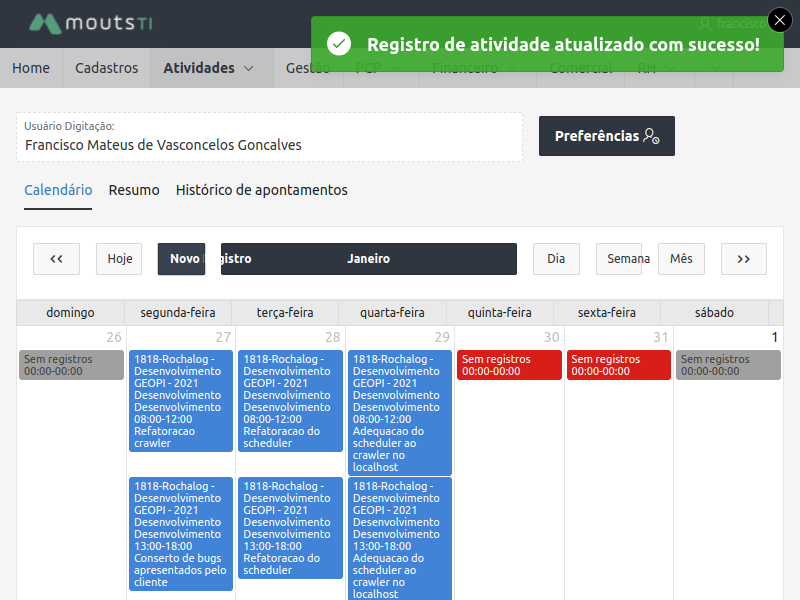
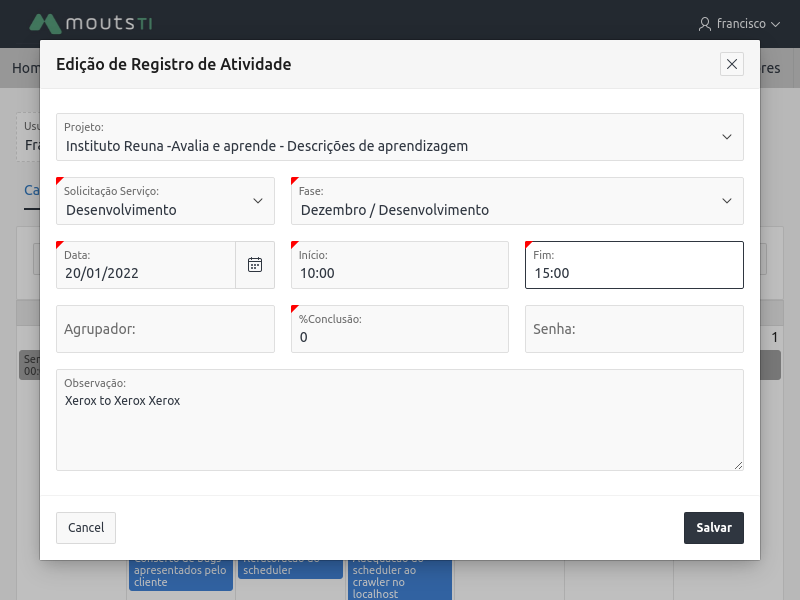
refatoracao e novas funcionalidades

diff --git a/script.js b/script.js
@@ -1,36 +1,22 @@
 const puppet = require("puppeteer");
+const intro = require("./etapas/intro");
+const modal = require("./etapas/modal");
 
 (async () => {
-	//const browser = await puppet.launch("browser");
-	const browser = await puppet.launch({ headless: false });
+	//constants
+	const params = {
+		data: 20 - 1,
+		texto: "Xerox to Xerox Xerox",
+		tempoInicio: "1000",
+		tempoFim: "1500",
+		empresa: "reuna",
+	};
+
+	const browser = await puppet.launch({ headless: true });
 	const page = await browser.newPage();
+	const elementHandle = await intro(page);
+	await modal(elementHandle, params);
 
-	const navigationPromise = page.waitForNavigation({
-		waitUntil: "networkidle2",
-	});
-	await page.goto(
-		"http://gdp.mouts.info/ords/f?p=100:LOGIN_DESKTOP:11870639424472:::::",
-	);
-	await page.type("#P9999_USERNAME", "francisco");
-	await page.type("#P9999_PASSWORD", "MOUTS0247");
-	await page.click("#B4448393888099367");
-	await navigationPromise;
-	await page.waitForSelector("#t_MenuNav_2");
-	await page.click("#t_MenuNav_2i");
-	await page.click("#t_MenuNav_2_0i");
-	await navigationPromise;
-
-	await page.waitForTimeout(4000);
-	await page.waitForSelector("#B38592991709747903");
-	await page.click("#B38592991709747903");
-
-	await page.waitForSelector(".ui-dialog");
-	const elementHandle = await page.waitForSelector("div.ui-dialog iframe");
-	await page.waitForTimeout(4000);
-	// Aqui Chega no Modal
-	const frame = await elementHandle.contentFrame();
-	await frame.waitForSelector("#B36122282037704243");
-	await frame.click("#B36122282037704243");
 	///////////////////////////////////////
 	await page.waitForTimeout(4000);
 	await page.screenshot({ path: "google.png" });

diff --git a/etapas/modal/index.js b/etapas/modal/index.js
@@ -1,0 +1,32 @@
+const selecionaEmpresa = require("./acoes/empresa");
+
+const modal = async (elementHandle, params) => {
+	const { empresa, tempoInicio, tempoFim, texto, data } = params;
+	// Aqui Chega no Modal
+	const frame = await elementHandle.contentFrame();
+	await frame.waitForSelector("#B36122282037704243");
+	await selecionaEmpresa(frame, empresa);
+	// Seleciona Data
+	await frame.click(".icon-calendar");
+	let datas = await frame.$x("//a[contains(@class, 'ui-state-default')]");
+	await datas[data].click();
+	// Escreve testim bonitim
+	await frame.evaluate(
+		() => (document.getElementById("P46_DS_OBSERVACAO").value = ""),
+	);
+	const textArea = await frame.$("#P46_DS_OBSERVACAO");
+	await textArea.type(texto);
+	//Indica as horas
+	//Inicio
+	const inicio = await frame.$("#P46_DT_HORA_INICIO");
+	await inicio.click({ clickCount: 3 });
+	await inicio.type(tempoInicio);
+	//Fim
+	const fim = await frame.$("#P46_DT_HORA_FIM");
+	await fim.click({ clickCount: 3 });
+	await fim.type(tempoFim);
+	// Confirma
+	//await frame.click("#B36122282037704243");
+};
+
+module.exports = modal;

diff --git a/etapas/intro.js b/etapas/intro.js
@@ -1,0 +1,28 @@
+const intro = async (page) => {
+	const navigationPromise = page.waitForNavigation({
+		waitUntil: "networkidle2",
+	});
+	await page.goto(
+		"http://gdp.mouts.info/ords/f?p=100:LOGIN_DESKTOP:11870639424472:::::",
+	);
+	await page.type("#P9999_USERNAME", "francisco");
+	await page.type("#P9999_PASSWORD", "MOUTS0247");
+	await page.click("#B4448393888099367");
+	await navigationPromise;
+	await page.waitForSelector("#t_MenuNav_2");
+	await page.click("#t_MenuNav_2i");
+	await page.click("#t_MenuNav_2_0i");
+	await navigationPromise;
+
+	await page.waitForTimeout(4000);
+	await page.waitForSelector("#B38592991709747903");
+	await page.click("#B38592991709747903");
+
+	await page.waitForSelector(".ui-dialog");
+	const elementHandle = await page.waitForSelector("div.ui-dialog iframe");
+	await page.waitForTimeout(4000);
+
+	return elementHandle;
+};
+
+module.exports = intro;

diff --git a/etapas/modal/acoes/empresa.js b/etapas/modal/acoes/empresa.js
@@ -1,0 +1,16 @@
+const selecionaEmpresa = async (frame, empresa) => {
+	const arr = [];
+	const empresas = await frame.$x('//*[@id = "P46_W_CD_PROJETO"]/option');
+	for (const i in empresas) {
+		const empresa = empresas[i];
+		const value = await (await empresa.getProperty("value")).jsonValue();
+		const text = await (await empresa.getProperty("text")).jsonValue();
+		arr.push({ value, text });
+	}
+
+	const filter = arr.filter((a) => new RegExp(empresa, "i").test(a.text));
+	const valorEmpresa = filter[0].value;
+	await frame.select("#P46_W_CD_PROJETO", valorEmpresa);
+};
+
+module.exports = selecionaEmpresa;
